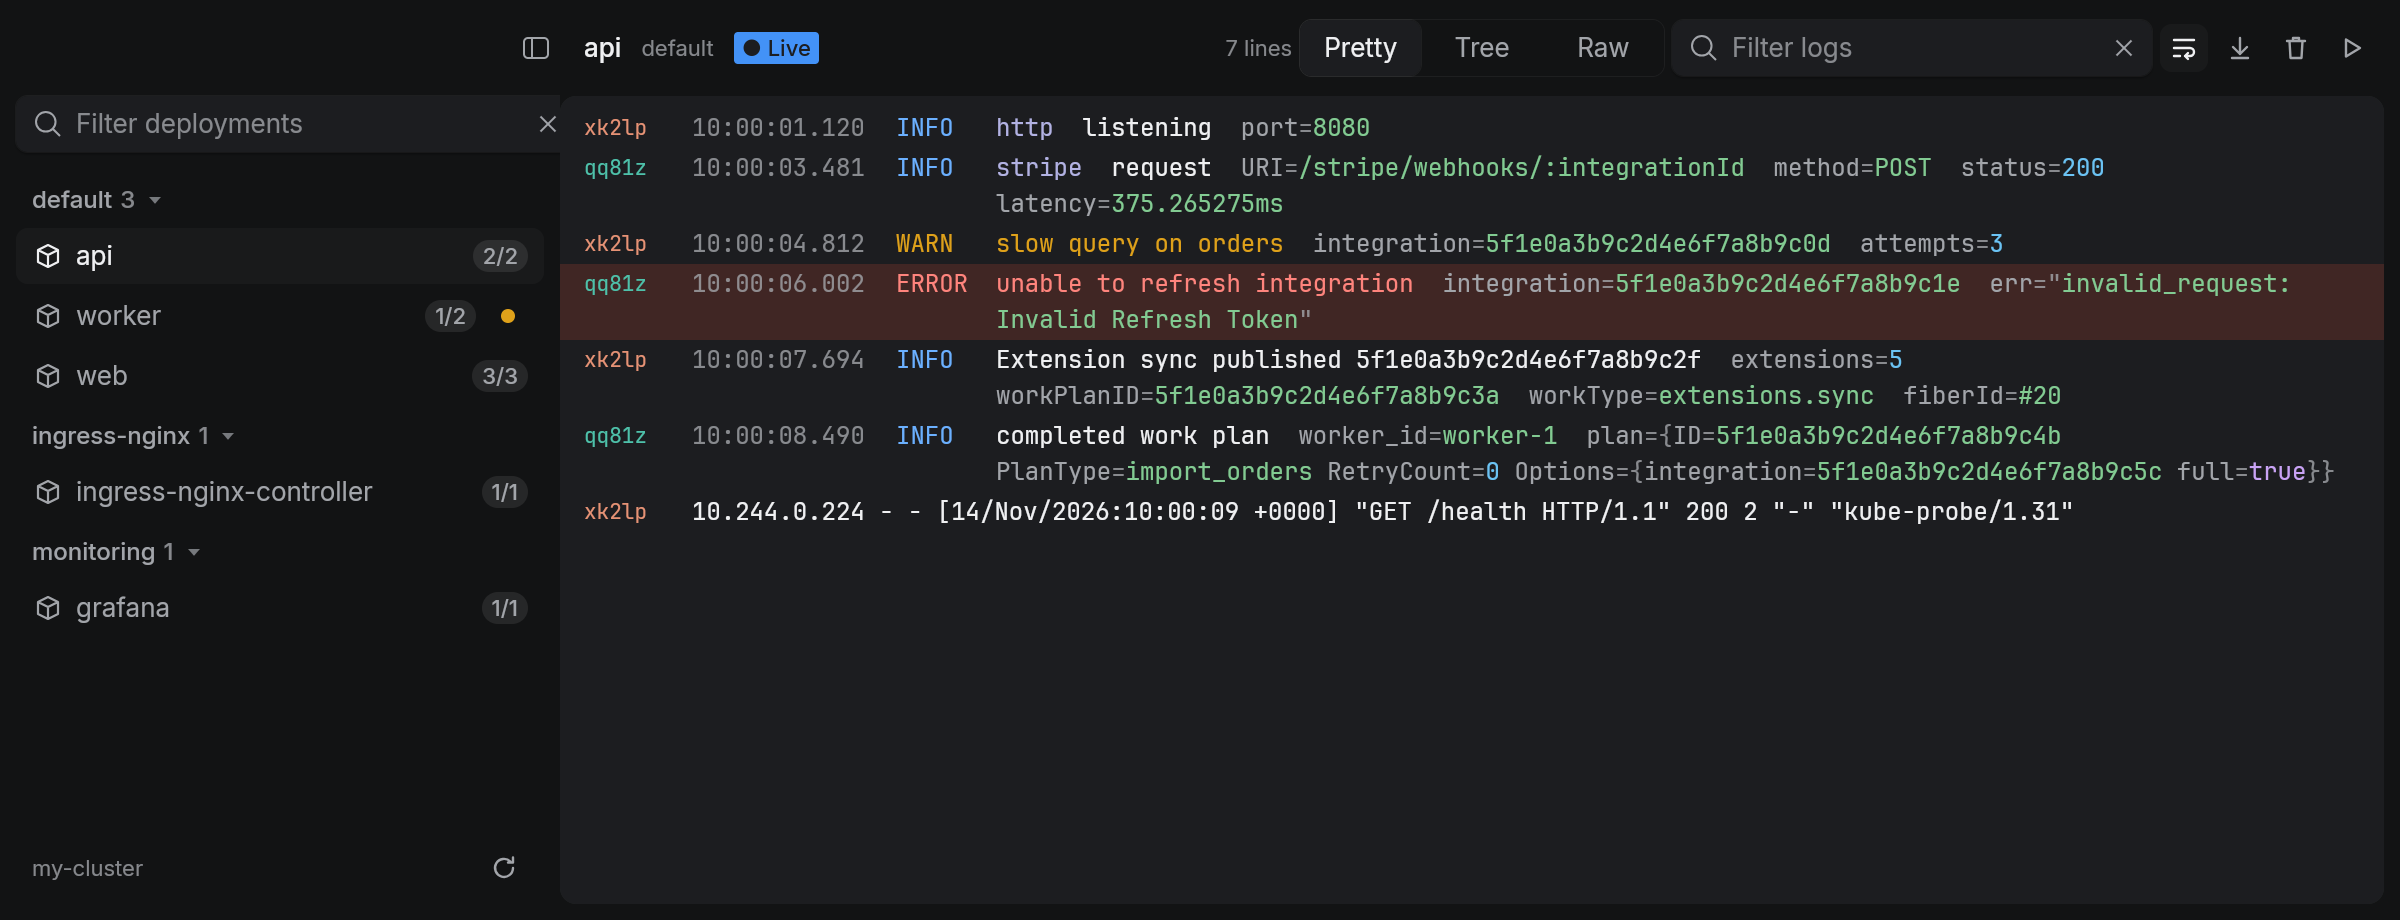
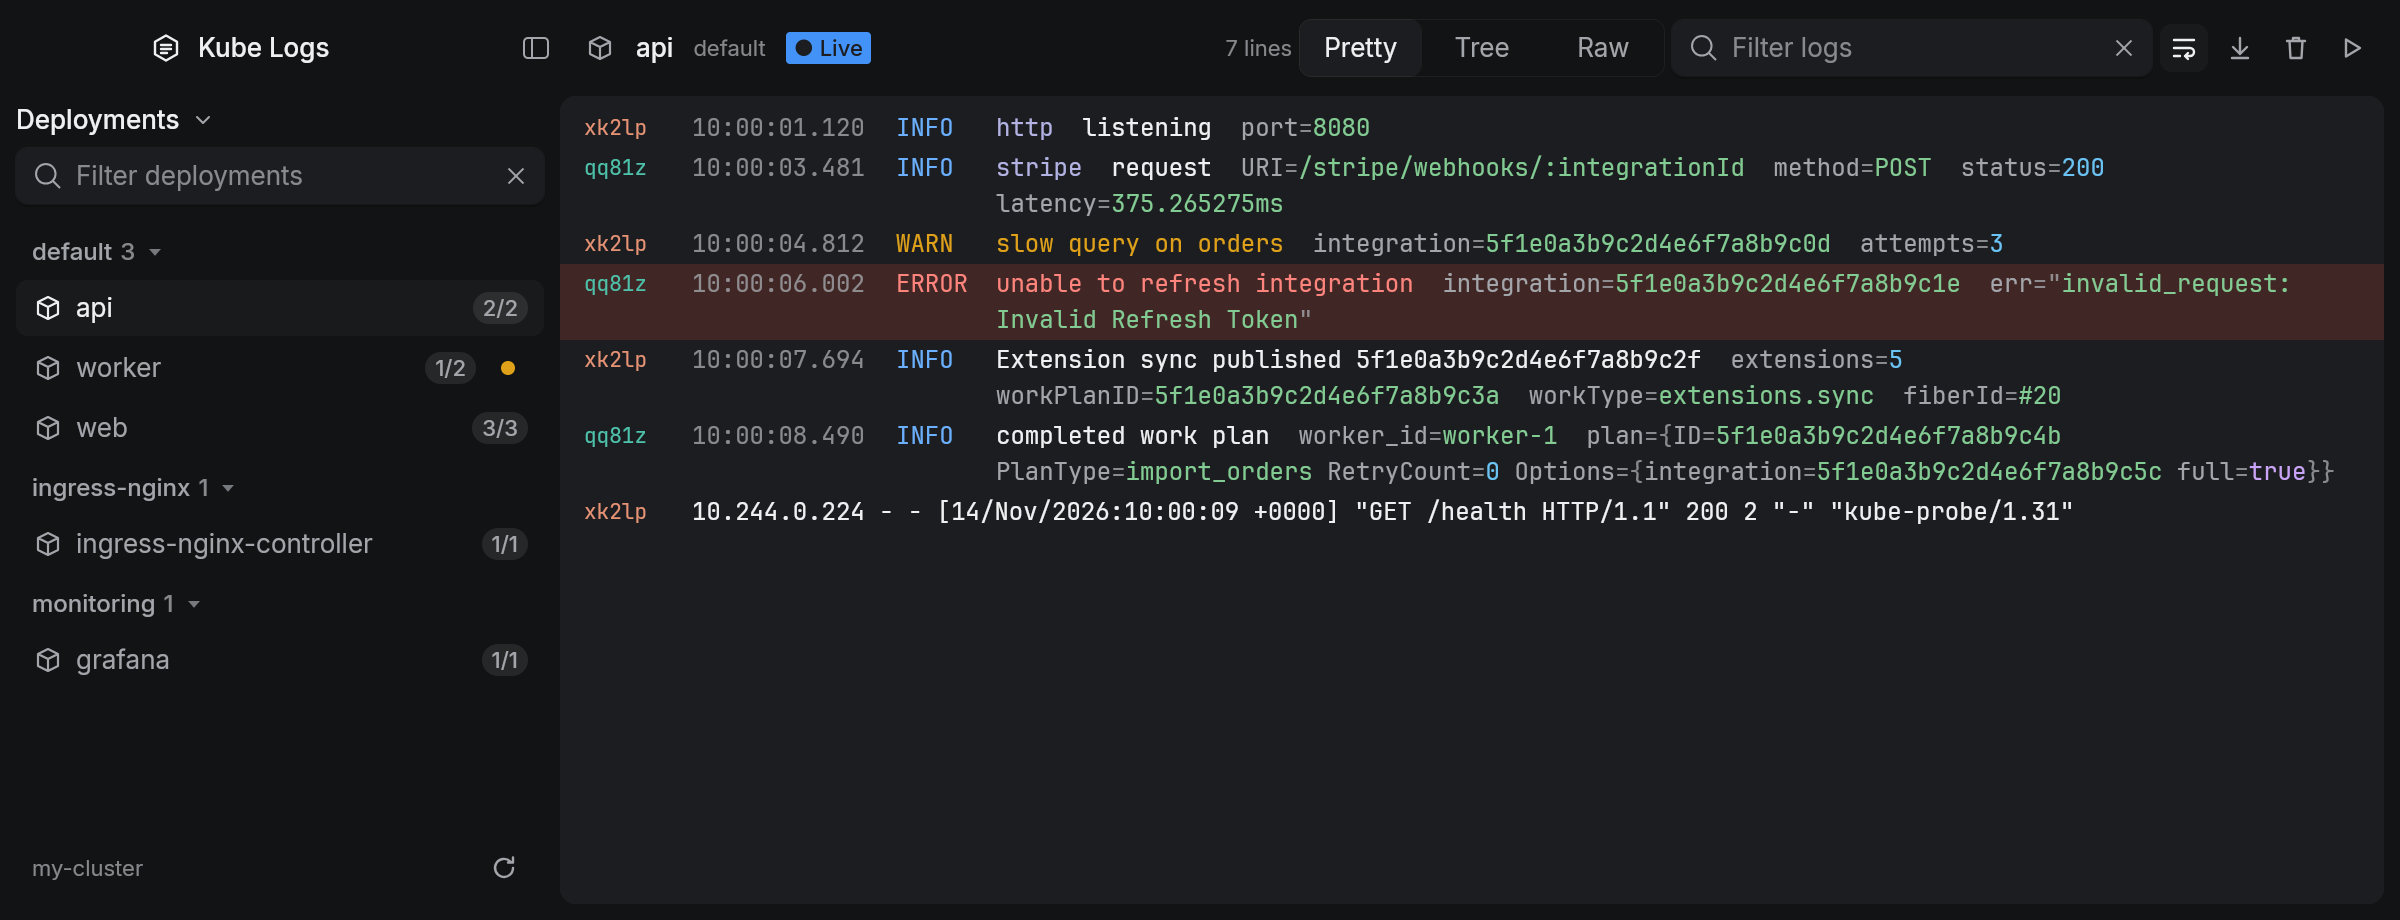
Update README screenshots and add one of the pods sidebar

diff --git a/src/main.rs b/src/main.rs
@@ -29,6 +29,16 @@ fn on_close(s: &mut App, _: &mut Tx) {
     s.disconnect();
 }
 
+const DEMO_LINES: [&str; 7] = [
+    r#"[pod/api-7d9f8b-xk2lp/api] {"level":"info","ts":"2026-11-14T10:00:01.120Z","logger":"http","msg":"listening","port":"8080"}"#,
+    r#"[pod/api-7d9f8b-qq81z/api] {"level":"info","ts":"2026-11-14T10:00:03.481Z","logger":"stripe","msg":"request","URI":"/stripe/webhooks/:integrationId","method":"POST","status":200,"error":null,"latency":"375.265275ms"}"#,
+    r#"[pod/api-7d9f8b-xk2lp/api] {"level":40,"time":1794650404812,"pid":1,"hostname":"api-7d9f8b-xk2lp","integration":"5f1e0a3b9c2d4e6f7a8b9c0d","attempts":3,"msg":"slow query on orders"}"#,
+    r#"[pod/api-7d9f8b-qq81z/api] {"level":50,"time":1794650406002,"pid":1,"hostname":"api-7d9f8b-qq81z","integration":"5f1e0a3b9c2d4e6f7a8b9c1e","err":{"type":"Error","message":"invalid_request: Invalid Refresh Token","stack":"Error: invalid_request: Invalid Refresh Token\n    at getRefreshedIntegration (/app/dist/index.cjs:64063:13)\n    at process.processTicksAndRejections (node:internal/process/task_queues:104:5)\n    at async updateIntegration (/app/dist/index.cjs:64190:20)"},"msg":"unable to refresh integration"}"#,
+    r##"[pod/api-7d9f8b-xk2lp/api] {"message":["Extension sync published","5f1e0a3b9c2d4e6f7a8b9c2f",{"extensions":5}],"level":"INFO","timestamp":"2026-11-14T10:00:07.694Z","annotations":{"workPlanID":"5f1e0a3b9c2d4e6f7a8b9c3a","workType":"extensions.sync"},"spans":{},"fiberId":"#20"}"##,
+    r#"[pod/api-7d9f8b-qq81z/api] {"time":"2026-11-14T10:00:08.490358595Z","level":"INFO","msg":"completed work plan","worker_id":"worker-1","plan":{"ID":"5f1e0a3b9c2d4e6f7a8b9c4b","PlanType":"import_orders","RetryCount":0,"Options":{"integration":"5f1e0a3b9c2d4e6f7a8b9c5c","full":true}}}"#,
+    "[pod/api-7d9f8b-xk2lp/api] 10.244.0.224 - - [14/Nov/2026:10:00:09 +0000] \"GET /health HTTP/1.1\" 200 2 \"-\" \"kube-probe/1.31\"",
+];
+
 /// Sample data for headless snapshots.
 fn demo(s: &mut App) {
     let d = |ns: &str, name: &str, ready: u32, desired: u32| Resource {
@@ -49,16 +59,7 @@ fn demo(s: &mut App) {
     s.selected = list.first().cloned();
     s.lists.insert(Kind::Deployment, Resources::Loaded(list));
     s.stream = Stream::Live;
-    let lines = [
-        r#"[pod/api-7d9f8b-xk2lp/api] {"level":"info","ts":"2026-11-14T10:00:01.120Z","logger":"http","msg":"listening","port":"8080"}"#,
-        r#"[pod/api-7d9f8b-qq81z/api] {"level":"info","ts":"2026-11-14T10:00:03.481Z","logger":"stripe","msg":"request","URI":"/stripe/webhooks/:integrationId","method":"POST","status":200,"error":null,"latency":"375.265275ms"}"#,
-        r#"[pod/api-7d9f8b-xk2lp/api] {"level":40,"time":1794650404812,"pid":1,"hostname":"api-7d9f8b-xk2lp","integration":"5f1e0a3b9c2d4e6f7a8b9c0d","attempts":3,"msg":"slow query on orders"}"#,
-        r#"[pod/api-7d9f8b-qq81z/api] {"level":50,"time":1794650406002,"pid":1,"hostname":"api-7d9f8b-qq81z","integration":"5f1e0a3b9c2d4e6f7a8b9c1e","err":{"type":"Error","message":"invalid_request: Invalid Refresh Token","stack":"Error: invalid_request: Invalid Refresh Token\n    at getRefreshedIntegration (/app/dist/index.cjs:64063:13)\n    at process.processTicksAndRejections (node:internal/process/task_queues:104:5)\n    at async updateIntegration (/app/dist/index.cjs:64190:20)"},"msg":"unable to refresh integration"}"#,
-        r##"[pod/api-7d9f8b-xk2lp/api] {"message":["Extension sync published","5f1e0a3b9c2d4e6f7a8b9c2f",{"extensions":5}],"level":"INFO","timestamp":"2026-11-14T10:00:07.694Z","annotations":{"workPlanID":"5f1e0a3b9c2d4e6f7a8b9c3a","workType":"extensions.sync"},"spans":{},"fiberId":"#20"}"##,
-        r#"[pod/api-7d9f8b-qq81z/api] {"time":"2026-11-14T10:00:08.490358595Z","level":"INFO","msg":"completed work plan","worker_id":"worker-1","plan":{"ID":"5f1e0a3b9c2d4e6f7a8b9c4b","PlanType":"import_orders","RetryCount":0,"Options":{"integration":"5f1e0a3b9c2d4e6f7a8b9c5c","full":true}}}"#,
-        "[pod/api-7d9f8b-xk2lp/api] 10.244.0.224 - - [14/Nov/2026:10:00:09 +0000] \"GET /health HTTP/1.1\" 200 2 \"-\" \"kube-probe/1.31\"",
-    ];
-    for l in lines {
+    for l in DEMO_LINES {
         s.logs.push(l.into(), false);
     }
 }
@@ -77,13 +78,20 @@ fn demo_pods(s: &mut App) {
         badge: badge.into(),
         healthy,
     };
-    s.mode = Kind::Pod;
-    s.lists.insert(Kind::Pod, Resources::Loaded(vec![
+    let pods = vec![
         p("default", "api-7d9f8b-qq81z", "1/1", true),
         p("default", "api-7d9f8b-xk2lp", "1/1 ↻2", true),
         p("default", "worker-5c6d7e-ab12c", "Pending", false),
         p("monitoring", "grafana-6f7a8b-zz9yx", "1/1", true),
-    ]));
+    ];
+    s.mode = Kind::Pod;
+    s.selected = Some(pods[1].clone());
+    s.lists.insert(Kind::Pod, Resources::Loaded(pods));
+    // One pod's lines only.
+    s.logs.clear();
+    for l in DEMO_LINES.iter().filter(|l| l.contains("xk2lp/")) {
+        s.logs.push((*l).into(), false);
+    }
 }
 
 fn main() {

diff --git a/README.md b/README.md
@@ -11,6 +11,8 @@ component kit `rune-kit`.
 
 ![Tree view](docs/tree.png)
 
+![Pods in the sidebar](docs/pods.png)
+
 ## Features
 
 - **Workloads sidebar**: a picker at the top switches what it lists — Deployments (default),
